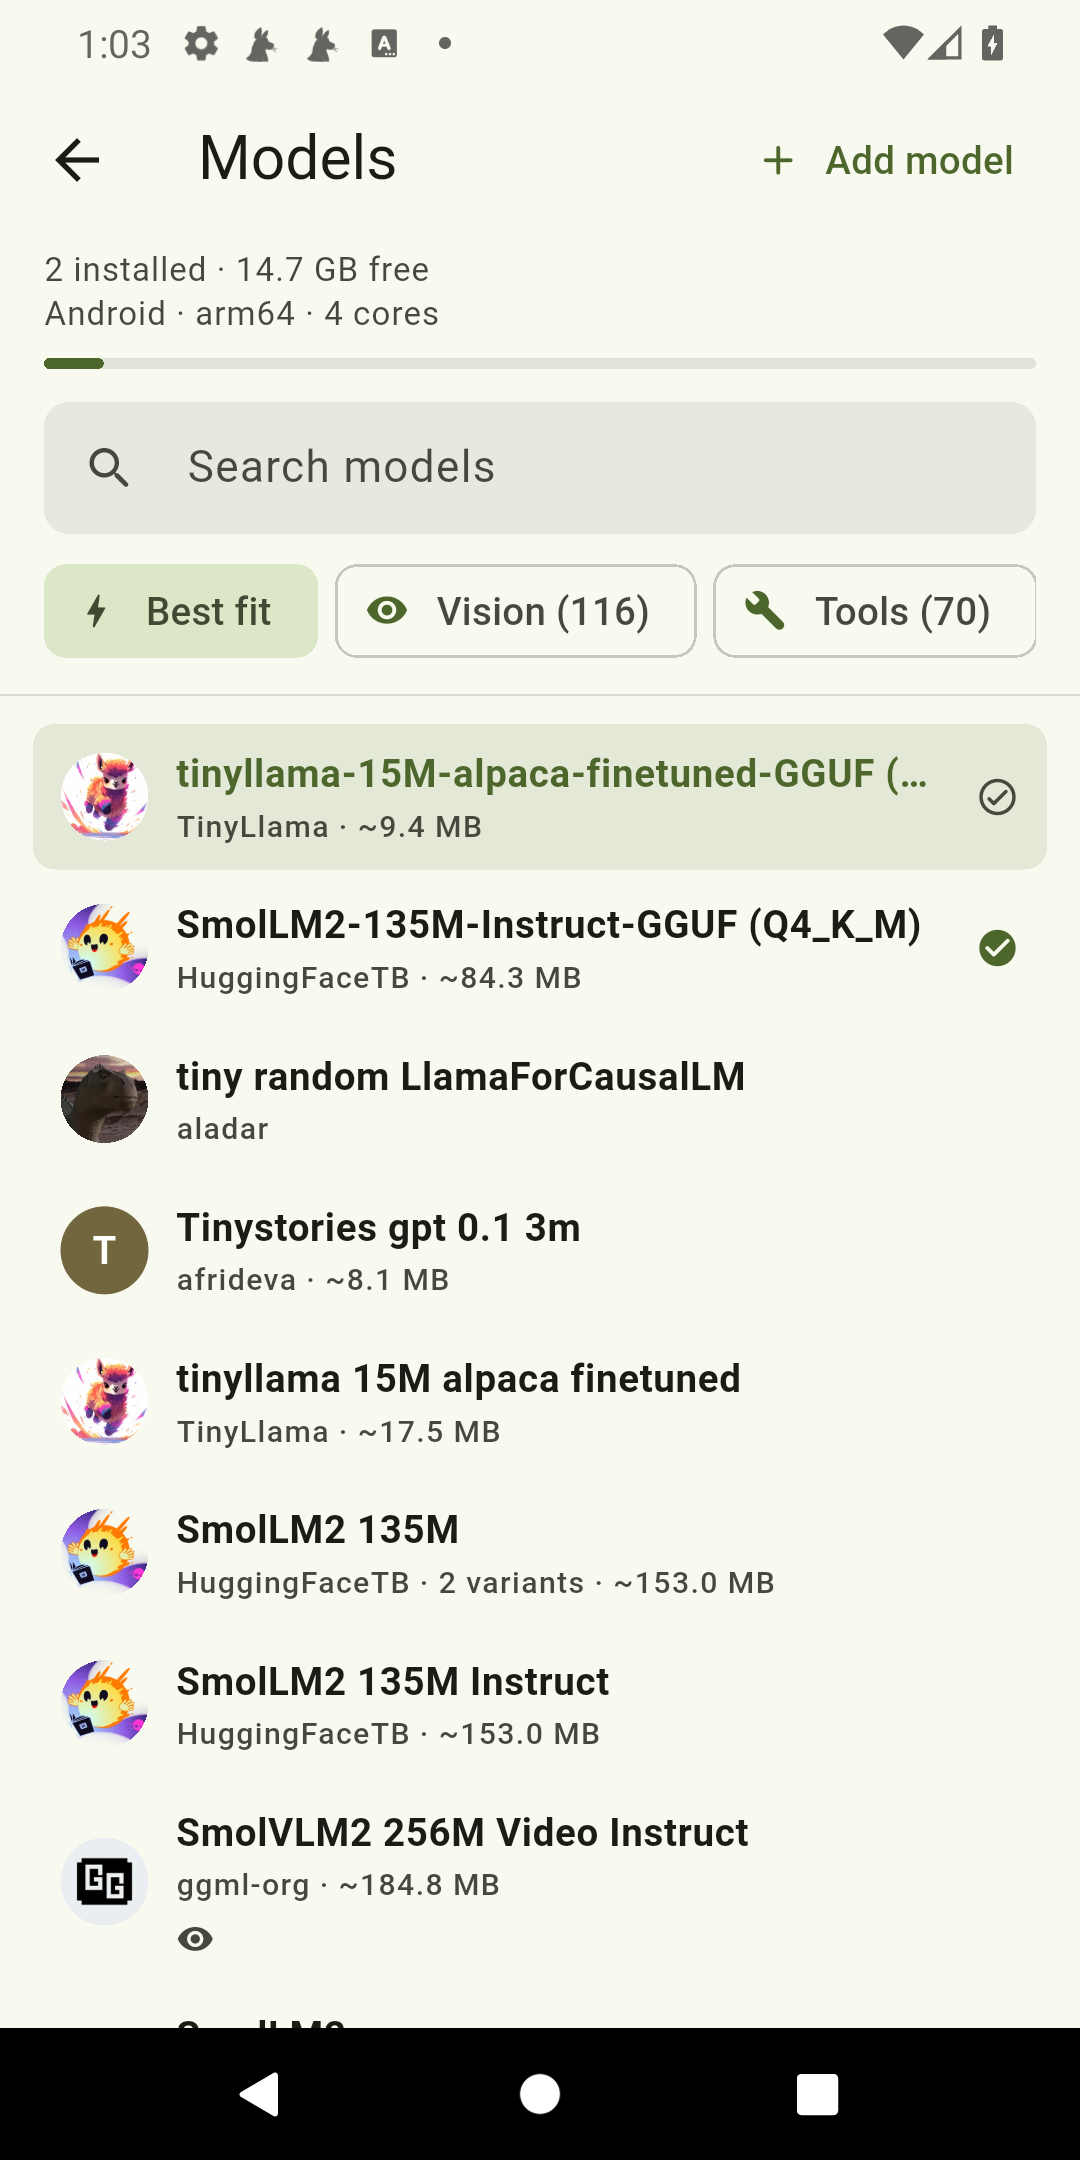
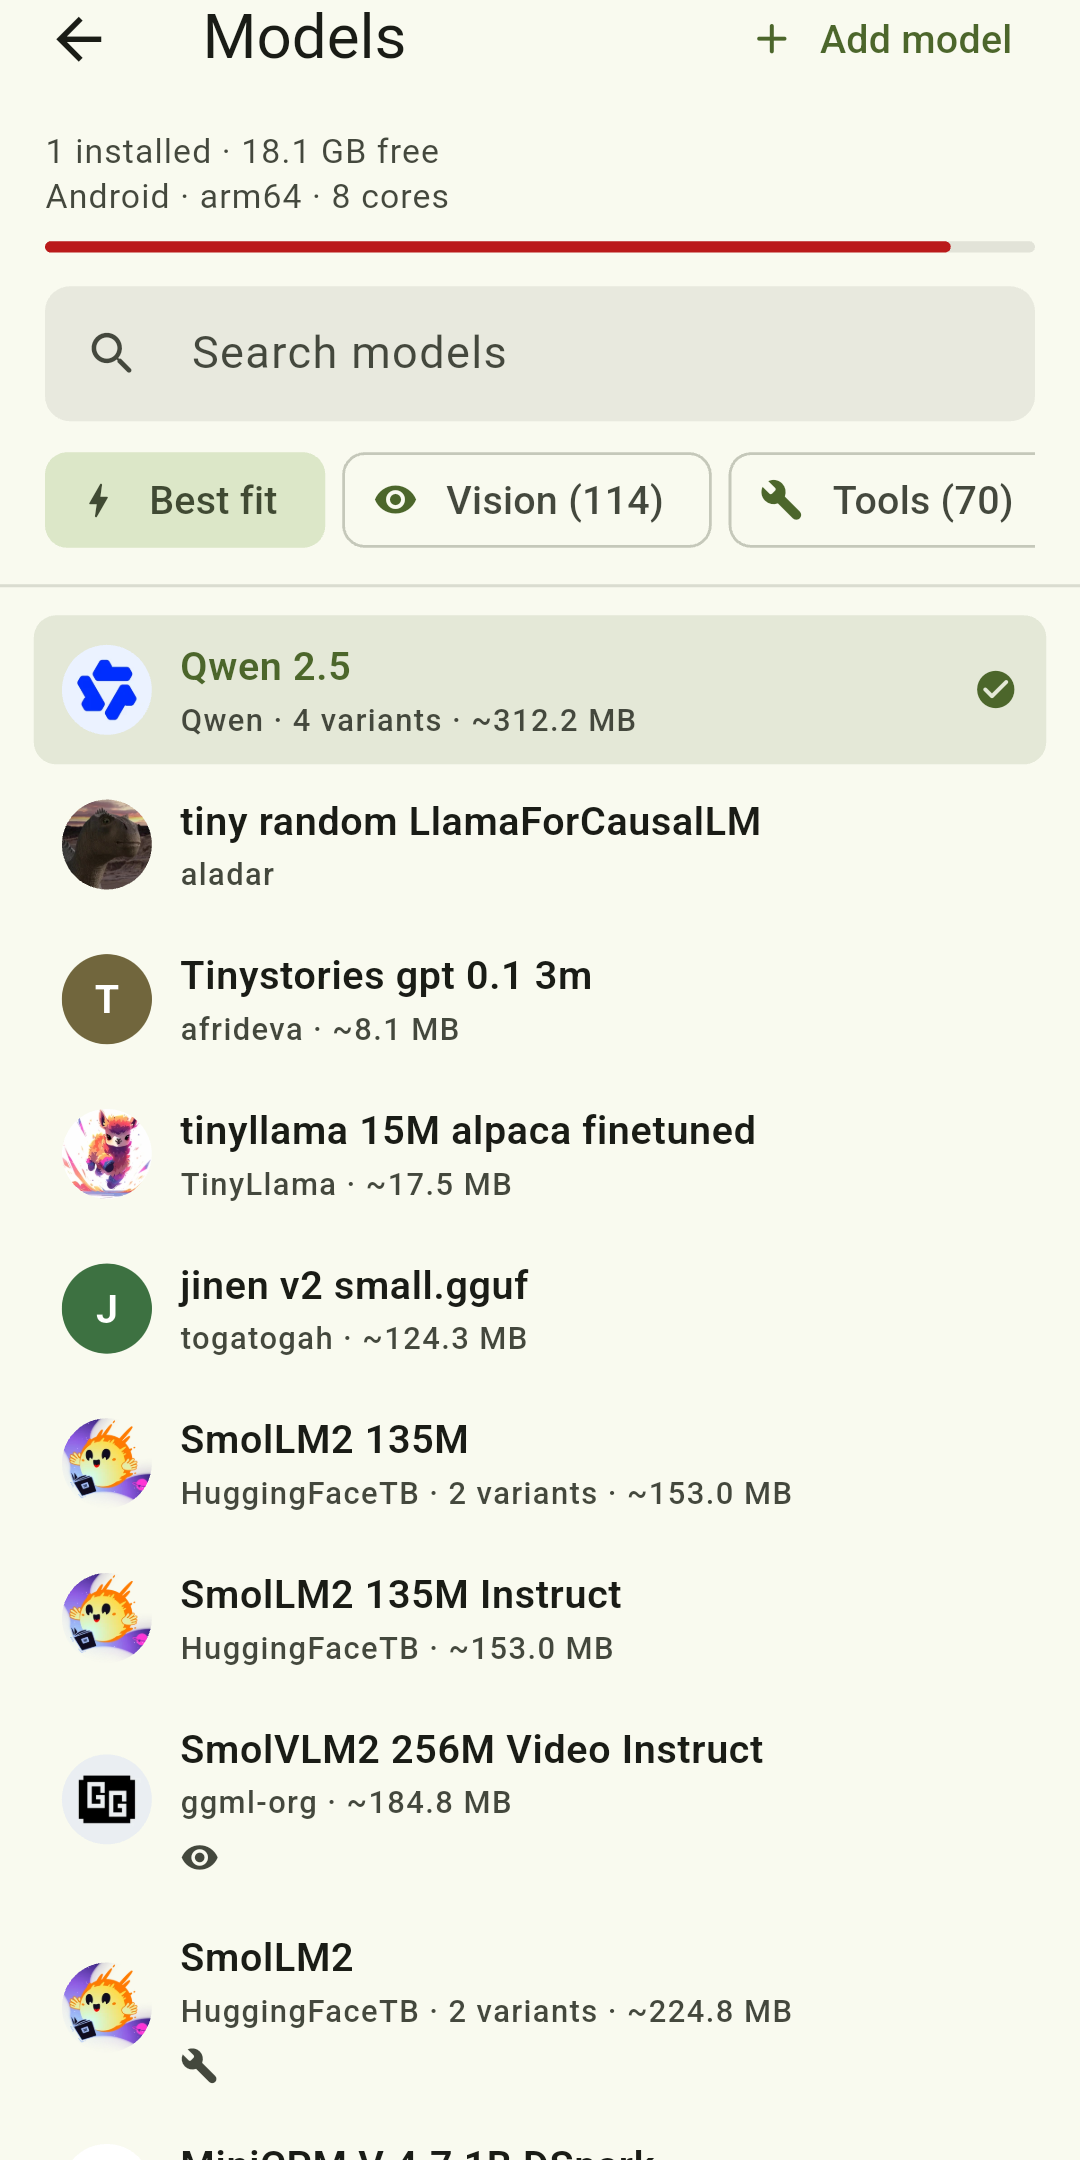
Refresh the Play screenshots from a phone at the store's 2:1 limit

diff --git a/docs/play_store/README.md b/docs/play_store/README.md
@@ -65,7 +65,10 @@ working tree with `scripts/build_android_bundle.sh`:
 - Store graphics on disk: `icon_512.png` is 512x512 with no alpha channel,
   `feature_graphic_1024x500.png` is 1024x500 with no alpha channel. Phone
   screenshots `screens/1.png` to `screens/5.png` are each 1080x2160 — 2:1, the
-  widest aspect Play accepts.
+  widest aspect Play accepts — retaken on 17 November 2026 on a OnePlus 7T
+  (HD1901, Android 12) in light theme, from a 1080x2400 capture with the status
+  and navigation bars cropped out. Order: 1 chat, 2 drawer, 3 models,
+  4 settings, 5 new chat.
 - `flutter analyze` clean, 44/44 tests passing.
 
 Earlier checks, 14 November 2026, before the star and Play nudges were added:
@@ -93,9 +96,9 @@ Earlier checks, 14 November 2026, before the star and Play nudges were added:
 Not verified: the `.aab` itself was never installed; the emulator run used a
 separate release APK from the same source and signing config, so Play-split
 APK delivery (no `bundletool` run) is untested. Nothing has been uploaded to
-Play Console, and the screenshots in `screens/` come from the emulator rather
-than a phone. The Play review sheet cannot be observed until the bundle is on a
-Play track and installed from Play.
+Play Console, and the store artwork has not been uploaded. The Play review
+sheet cannot be observed until the bundle is on a Play track and installed from
+Play.
 
 ## 4. Play Console checklist
 
